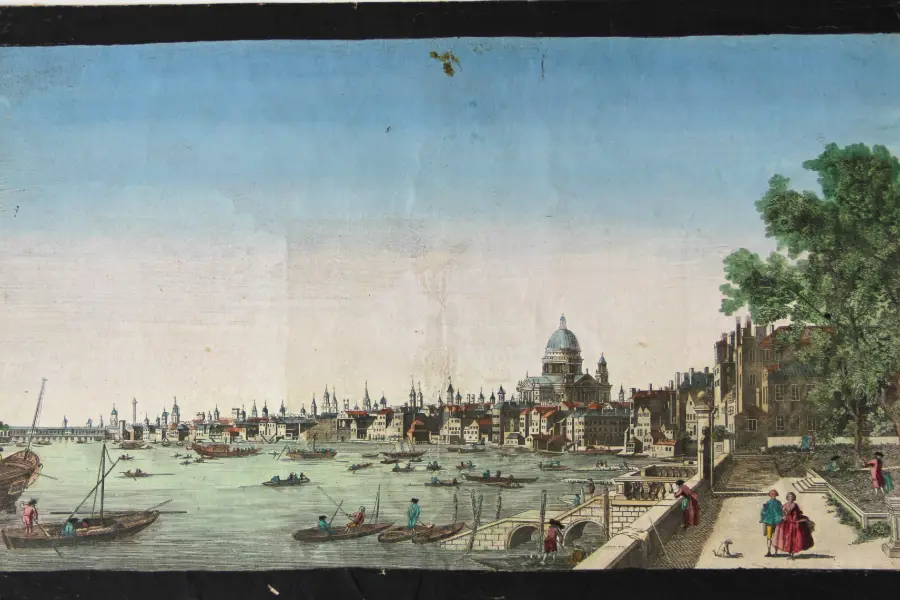
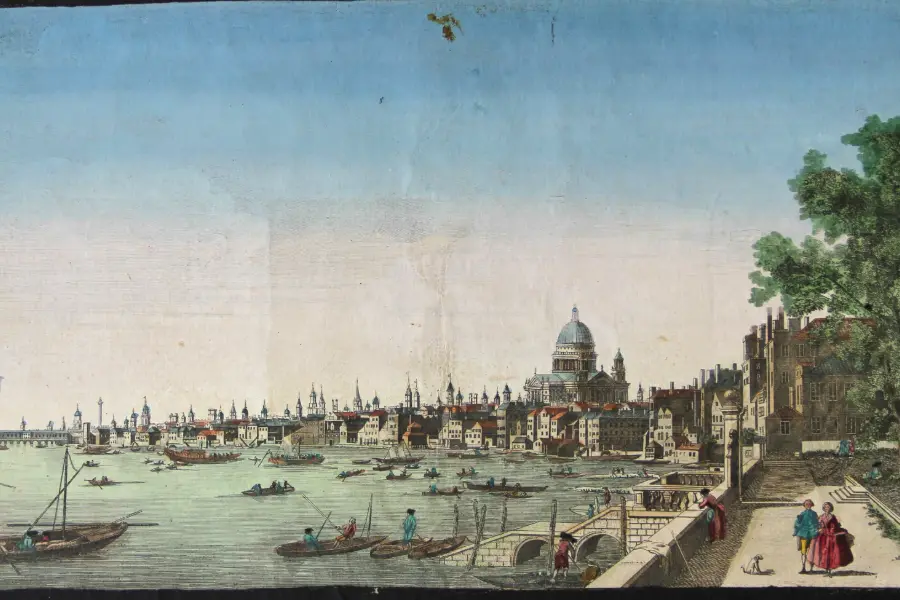
Replace the four monochrome era plates with colour originals
Half the backdrop was monochrome at source, so the cursor lens revealed
grey on those plates and the effect was wasted. All eight are now colour
originals, still public domain or CC0 from Wikimedia Commons.

  sail      1611 -> 1630  Amsterdam profile engraving -> Vroom, The Harbour
                          in Amsterdam. Blue sea, warm sky, flagged ships.
  rail      1872 -> 1892  Dore's London engraving -> Grimshaw, Liverpool
                          Docks by Night. Gaslight amber on wet stone.
                          Relabelled "the gaslit city".
  electric  1921 -> 1900  Underhill's skyline photo -> Detroit Publishing
                          photochrom of Mulberry Street. Dense street colour.
  machine   1945 -> 1948  Manhattan panorama -> Gottlieb's 52nd Street.
                          Neon signage at night. Relabelled "the neon city".

Dates and labels follow the new sources, and the sequence stays in
chronological order: 1572, 1630, 1750, 1801, 1892, 1900, 1948, 2012.

Also tightens the 1750 London crop, which was catching the dark frame edge
along the top of the plate.

Total imagery drops from 614KB to 553KB despite the richer sources.

diff --git a/src/site.config.js b/src/site.config.js
@@ -94,13 +94,14 @@ export const eras = [
   },
   {
     id: 'sail',
-    year: '1611',
+    year: '1630',
     age: 'The age of sail',
     place: 'Amsterdam',
     image: sailAge,
-    artist: 'Pieter Bast & Claes Janszoon Visscher II',
+    artist: 'Hendrick Cornelisz Vroom',
     license: 'Public domain',
-    source: 'https://commons.wikimedia.org/wiki/File:Profile_of_Amsterdam,_1611.jpg',
+    source:
+      'https://commons.wikimedia.org/wiki/File:VROOM_Hendrick_Cornelisz_The_Harbour_in_Amsterdam.jpg',
   },
   {
     id: 'enlightenment',
@@ -125,35 +126,34 @@ export const eras = [
   },
   {
     id: 'rail',
-    year: '1872',
-    age: 'The railway city',
-    place: 'London',
+    year: '1892',
+    age: 'The gaslit city',
+    place: 'Liverpool',
     image: railAge,
-    artist: 'Gustave Doré',
+    artist: 'John Atkinson Grimshaw',
     license: 'Public domain',
-    source: 'https://commons.wikimedia.org/wiki/File:YCBA_London_a_Pilgrimage_06_(cropped).jpg',
+    source:
+      'https://commons.wikimedia.org/wiki/File:John_Atkinson_Grimshaw_(1836-1893)_-_Liverpool_Docks_by_Night_-_WAG_10328_-_Walker_Art_Gallery.jpg',
   },
   {
     id: 'electric',
-    year: '1921',
+    year: '1900',
     age: 'The electric metropolis',
     place: 'New York',
     image: electricAge,
-    artist: 'Irving Underhill',
+    artist: 'Detroit Publishing Co.',
     license: 'Public domain',
-    source:
-      'https://commons.wikimedia.org/wiki/File:New_York_skyline_from_Jersey_City_LCCN97519723.jpg',
+    source: 'https://commons.wikimedia.org/wiki/File:Mulberry_Street_NYC_c1900_LOC_3g04637u_edit.jpg',
   },
   {
     id: 'machine',
-    year: '1945',
-    age: 'The machine age',
-    place: 'Manhattan',
+    year: '1948',
+    age: 'The neon city',
+    place: 'New York',
     image: machineAge,
-    artist: 'Tom Blackmore (restoration)',
+    artist: 'William P. Gottlieb',
     license: 'Public domain',
-    source:
-      'https://commons.wikimedia.org/wiki/File:Panorama_of_Manhattan%27s_West_Side_from_Across_the_Hudson,_restored.jpg',
+    source: 'https://commons.wikimedia.org/wiki/File:52nd_Street,_New_York,_by_Gottlieb,_1948.jpg',
   },
   {
     id: 'network',

diff --git a/src/assets/eras/ATTRIBUTION.md b/src/assets/eras/ATTRIBUTION.md
@@ -10,26 +10,30 @@ Each file was cropped to 3:2 and re-encoded to WebP at 900×600. Colour grading
 is **not** baked in — it is applied at runtime in `EraBackdrop.css`, so the
 originals stay neutral and a theme change re-grades them for free.
 
-| File               | Year | Age                     | Creator                                    | Licence       |
-| ------------------ | ---- | ----------------------- | ------------------------------------------ | ------------- |
-| `print.webp`       | 1572 | The print age           | Braun, Hogenberg, Hoefnagel & Novellanus   | CC0           |
-| `sail.webp`        | 1611 | The age of sail         | Pieter Bast & Claes Janszoon Visscher II   | Public domain |
-| `enlightenment.webp` | 1750 | The enlightenment     | Unknown                                    | CC0           |
-| `steam.webp`       | 1801 | The age of steam        | Philip James de Loutherbourg               | Public domain |
-| `rail.webp`        | 1872 | The railway city        | Gustave Doré                               | Public domain |
-| `electric.webp`    | 1921 | The electric metropolis | Irving Underhill                           | Public domain |
-| `machine.webp`     | 1945 | The machine age         | Tom Blackmore (restoration)                | Public domain |
-| `network.webp`     | 2012 | The network age         | NASA Earth Observatory                     | Public domain |
+Every image is a colour original. That is deliberate: the cursor lens reveals
+each plate's true colour, so a monochrome source would surface as grey and waste
+the effect.
+
+| File                 | Year | Age                     | Creator                                  | Licence       |
+| -------------------- | ---- | ----------------------- | ---------------------------------------- | ------------- |
+| `print.webp`         | 1572 | The print age           | Braun, Hogenberg, Hoefnagel & Novellanus | CC0           |
+| `sail.webp`          | 1630 | The age of sail         | Hendrick Cornelisz Vroom                 | Public domain |
+| `enlightenment.webp` | 1750 | The enlightenment       | Unknown                                  | CC0           |
+| `steam.webp`         | 1801 | The age of steam        | Philip James de Loutherbourg             | Public domain |
+| `rail.webp`          | 1892 | The gaslit city         | John Atkinson Grimshaw                   | Public domain |
+| `electric.webp`      | 1900 | The electric metropolis | Detroit Publishing Co.                   | Public domain |
+| `machine.webp`       | 1948 | The neon city           | William P. Gottlieb                      | Public domain |
+| `network.webp`       | 2012 | The network age         | NASA Earth Observatory                   | Public domain |
 
 ## Source pages
 
 - **print** — [Anverpia, from Braun and Hogenberg's *Civitates Orbis Terrarum*](https://commons.wikimedia.org/wiki/File:Anverpia_from_Braun_and_Hogenberg%27s_Civitates_Orbis_Terrarum_MET_DP325824.jpg) (Metropolitan Museum of Art)
-- **sail** — [Profile of Amsterdam, 1611](https://commons.wikimedia.org/wiki/File:Profile_of_Amsterdam,_1611.jpg)
+- **sail** — [The Harbour in Amsterdam, 1630](https://commons.wikimedia.org/wiki/File:VROOM_Hendrick_Cornelisz_The_Harbour_in_Amsterdam.jpg)
 - **enlightenment** — [Gezicht op Londen, 1750](https://commons.wikimedia.org/wiki/File:Gezicht_op_Londen,_asset_pXSWUZ7EAiEsbgR6QgeGE7JR.jpg) (Rijksmuseum)
 - **steam** — [Coalbrookdale by Night, 1801](https://commons.wikimedia.org/wiki/File:Philipp_Jakob_Loutherbourg_d._J._002.jpg)
-- **rail** — [*London: A Pilgrimage*, 1872](https://commons.wikimedia.org/wiki/File:YCBA_London_a_Pilgrimage_06_(cropped).jpg) (Yale Center for British Art)
-- **electric** — [New York skyline from Jersey City, 1921](https://commons.wikimedia.org/wiki/File:New_York_skyline_from_Jersey_City_LCCN97519723.jpg) (Library of Congress)
-- **machine** — [Panorama of Manhattan's West Side, 1945](https://commons.wikimedia.org/wiki/File:Panorama_of_Manhattan%27s_West_Side_from_Across_the_Hudson,_restored.jpg)
+- **rail** — [Liverpool Docks by Night, 1892](https://commons.wikimedia.org/wiki/File:John_Atkinson_Grimshaw_(1836-1893)_-_Liverpool_Docks_by_Night_-_WAG_10328_-_Walker_Art_Gallery.jpg) (Walker Art Gallery)
+- **electric** — [Mulberry Street, New York, c. 1900](https://commons.wikimedia.org/wiki/File:Mulberry_Street_NYC_c1900_LOC_3g04637u_edit.jpg) — photochrom, Library of Congress
+- **machine** — [52nd Street, New York, 1948](https://commons.wikimedia.org/wiki/File:52nd_Street,_New_York,_by_Gottlieb,_1948.jpg) (William P. Gottlieb collection, Library of Congress)
 - **network** — [City Lights of the United States, 2012](https://commons.wikimedia.org/wiki/File:City_Lights_of_the_United_States_2012.jpg) (NASA Earth Observatory)
 
 ## Replacing or adding an era
